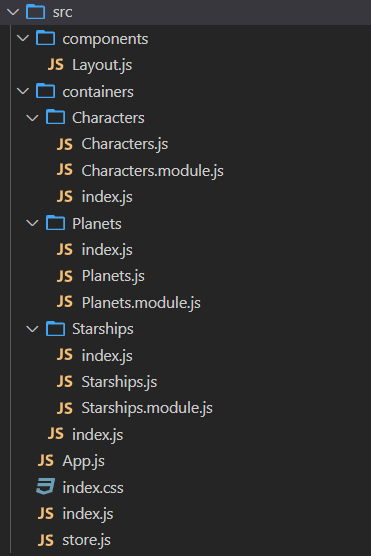
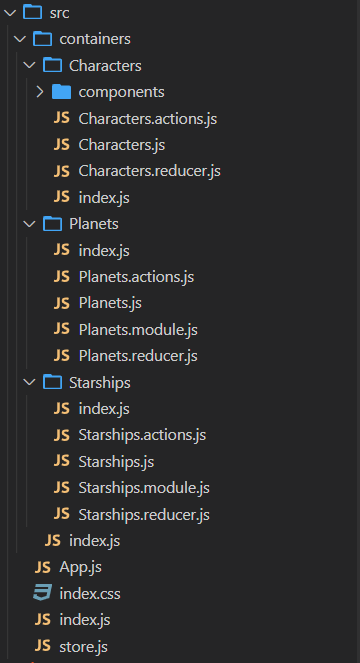
Fullfilled readme

diff --git a/README.md b/README.md
@@ -1,44 +1,131 @@
 # Modularyzacja aplikacji reduxowych
 
+Opowiadanie o zmniejszaniu ilości warstw systemu
+
 ## "A co to redux?" - problem warstw abstrakcji jako powszechny błąd w tutorialach.
 
-Kiedy uczysz się o reduxie i roli akcji i reducerów, zaczynasz od bardzo prostych przykładów. Większość dostępnych tutoriali nie wchodzi na wyższy poziom. Ale jeśli budujesz coś z Reduxem, co jest bardziej skomplikowane niż lista rzeczy do zrobienia, będziesz potrzebował mądrzejszego sposobu na skalowanie swojej bazy danych w czasie.
+<img src="https://raw.githubusercontent.com/michalniemiec28/modularizing-redux-apps/master/readme/redux-flow.gif" width="500" />
 
-W tutorialach przygoda zazwyczaj zaczyna się od utworzenia osobnego katalogu dla akcji, reducerów oraz typów akcji. Jest to podejście function-first - katalogi najwyższego poziomu są nazwane zgodnie z przeznaczeniem plików znajdujących się w środku. Masz więc: kontenery, komponenty, akcje, reducery, itd.
+[https://redux.js.org/tutorials/essentials/part-1-overview-concepts]
+
+Kiedy uczysz się o reduxie i roli akcji i reducerów, zaczynasz od bardzo prostych przykładów. Większość dostępnych tutoriali nie wchodzi na wyższy poziom. Ale jeśli budujesz coś z Reduxem, co jest bardziej skomplikowane niż lista rzeczy do zrobienia, będziesz potrzebował mądrzejszego sposobu na skalowanie swojego zewnętrznego stanu komponentów.
+
+W tutorialach przygoda zazwyczaj zaczyna się od utworzenia osobnych katalogów dla akcji, reducerów oraz typów akcji. Jest to podejście `function-first` - katalogi najwyższego poziomu są nazwane zgodnie z przeznaczeniem plików znajdujących się w środku. Masz więc: kontenery, komponenty, akcje, reducery, itd.
 
 Każdy katalog jest osobną warstwą abstrakcji twojej aplikacji.
 
[1 lines of base64/hex data omitted]
-
-Musisz wiedzieć że to się w ogóle nie skaluje. Gdy Twoja aplikacja się rozrasta i dodajesz więcej funkcji, dodajesz pliki do tych samych folderów. Więc kończysz z koniecznością przewijania wewnątrz jednego folderu, aby znaleźć swój plik.
+Musisz wiedzieć, że to się w ogóle nie skaluje. Gdy Twoja aplikacja się rozrasta i dodajesz więcej funkcji, dodajesz pliki do tych samych folderów. Więc kończysz z koniecznością przewijania wewnątrz jednego folderu, aby znaleźć swój plik.
 
 Problem polega również na sprzężeniu folderów razem. Pojedynczy przepływ przez twoją aplikację prawdopodobnie będzie wymagał plików z wszystkich folderów.
 
-Jedną z zalet tego podejścia jest to, że izoluje ono - w naszym przypadku - Reacta od Reduxa. Więc jeśli chcesz zmienić bibliotekę zarządzania stanem, wiesz, których folderów musisz dotknąć. I na odwrót - jeśli zmienisz bibliotekę widoku, możesz zachować swoje reduxowe foldery nietknięte.
-
 ## Architektura Ducks. Współdzielone abstrakcje.
-
-<img src="https://cdn-media-1.freecodecamp.org/images/1*uceu9f-p_A2H2-2xD-6MiQ.jpeg" width="500" />
 
 Ktoś kiedyś powiedział, że nazywanie rzeczy jest jedną z najtrudniejszych prac w informatyce. Nie mógłbym się z tym nie zgodzić ale strukturyzowanie folderów i organizowanie plików jest na drugim miejscu.
 
 Istnieją dwa podejścia do strukturyzacji aplikacji: function-first i feature-first.
 
-Poniżej po lewej stronie widać strukturę folderów typu function-first. Po prawej stronie możesz zobaczyć podejście feature-first.
+### Podejście typu function-first:
 
-<img src="https://cdn-media-1.freecodecamp.org/images/1*HM8M2Agd_TBfU4Zm1_lEJA.png" />
+<img src="https://raw.githubusercontent.com/michalniemiec28/modularizing-redux-apps/master/readme/function-first.png" />
+
+Redux sam w sobie tworzy parę warstw abstrakcyjnych:
+- akcje (i action-type'y)
+- reducery
+- store
+- middleware'y
+
+Dodając do tego warstwę komponentów i kontenerów lub route'ów wychodzi nam całkiem skomplikowana struktura, w której można bardzo łatwo zaburzyć porządek. Wystarczy pomieszać użycie ze sobą kolejnych warstw albo np utworzyć akcje, które nie będą miały odzwierciedlenia w warstwie reducerów.
+
+### Podejście typu feature-first:
+
+<img src="https://raw.githubusercontent.com/michalniemiec28/modularizing-redux-apps/master/readme/feature-first.png" />
 
 Feature-first oznacza, że katalogi najwyższego poziomu są nazwane po głównych funkcjach aplikacji: produkt, koszyk, sesja. Takie podejście skaluje się znacznie lepiej.
 
 Każda nowa funkcjonalność wiąże się z nowym katalogiem, który jednocześnie zawiera logikę aplikacji podzieloną według swojego przeznaczenia.
+Plusów tego rozwiązania jest bardzo dużo, największy plus moim zdaniem to bardzo mało kodu w tak zwanym folderze `shared`, gdyż logika aplikacji jest pocięta względem komponentów.
+
+Ogólnie im mniejszy poziom abstrakcji tym lepsza czytelność, dlatego powinno się dążyć do jak najmniejszej ilości warstw. Patrząc na akcje i reducer, można stwierdzić że "zmieszczą się" w jednym pliku. Ten plik to właśnie duck - kaczka, czyli moduł.
+
+<img src="https://raw.githubusercontent.com/michalniemiec28/modularizing-redux-apps/master/readme/ducks.jpeg" width="300" />
+
+[https://github.com/erikras/ducks-modular-redux]
 
 ## Code splitting, asynchroniczne reducery.
 
 W dużych aplikacjach internetowych, często pożądane jest podzielenie kodu aplikacji na wiele pakietów JS, które mogą być ładowane na żądanie. Ta strategia, zwana "dzieleniem kodu", pomaga zwiększyć wydajność aplikacji poprzez zmniejszenie rozmiaru początkowego ładunku JS, który musi zostać pobrany.
 
+Świetnym featurem jest ładowanie komponentów za pomocą funkcji `lazy`. Pozwala ona na asynchroniczne pobieranie kawałków wygenerowanego kodu przez webpacka. Daje nam to możliwość zmniejszenia rozmiaru aplikacji, którą trzeba pobrać na początku.
+
+```js
+// App.js
+
+const Characters = lazy(() => import("./containers/Characters"))
+const Planets = lazy(() => import("./containers/Planets"))
+const Starships = lazy(() => import("./containers/Starships"))
+
+const App = () => (
+  <Provider store={store}>
+    <BrowserRouter>
+      <Suspense fallback={null}>
+        <Routes>
+          <Route path="/" element={<Layout />}>
+            <Route path="characters" element={<Characters />} />
+            <Route path="planets" element={<Planets />} />
+            <Route path="starships" element={<Starships />} />
+          </Route>
+        </Routes>
+      </Suspense>
+    </BrowserRouter>
+  </Provider>
+)
+```
+
+Jeszcze lepiej aplikacja skaluje się jak zadeklarujemy ładowanie kontenerów w pliku `src/containers/index.js`
+
+```js
+// containers/index.js
+
+import { lazy } from "react"
+
+export const Characters = lazy(() => import("./Characters"))
+export const Planets = lazy(() => import("./Planets"))
+export const Starships = lazy(() => import("./Starships"))
+```
+
+Należy wtedy pamiętać o poprawnym ładowaniu takich komponentów, muszą być one owrapowane komponentem `Suspense`. Im mniej warstw między `Suspense` a importowanym komponentem, tym lepiej.
+
+```js
+// App.js
+
+import { Characters, Planets, Starships } from './containers'
+
+const wrapSuspense = (Component) => (
+  <Suspense fallback={<Fallback />}>
+    <Component />
+  </Suspense>
+)
+
+const App = () => (
+  <Provider store={store}>
+    <BrowserRouter>
+      <Routes>
+        <Route path="/" element={<Layout />}>
+          <Route path="characters" element={wrapSuspense(Characters)} />
+          <Route path="planets" element={wrapSuspense(Planets)} />
+          <Route path="starships" element={wrapSuspense(Starships)} />
+        </Route>
+      </Routes>
+    </BrowserRouter>
+  </Provider>
+)
+```
+
+Takie rozwiązanie pozwala nie tylko zmniejszyć rozmiar aplikacji potrzebny do załadowania "na starcie" ale również na asynchoniczne wpinanie do redux'a modułów, których potrzebujemy.
+
 ### Funkcja `replaceReducer`
 
-Aby podzielić kod, chcemy mieć możliwość dynamicznego dodawania reducerów do store'a. Główny reducer jest generowany przez wywołanie `combineReducers()`. Aby dynamicznie dodawać kolejne reducery, musimy ponownie wywołać tę funkcję, aby zastąpić reducer główny. Do tego służy funkcja replaceReduce. Wywołanie jej spowoduje zamianę referencji do wewnętrznej funkcji reducera oraz wysłanie akcji, która pomoże nowo dodanym reducerom w inicjalizacji:
+Aby podzielić kod, chcemy mieć możliwość dynamicznego dodawania reducerów do store'a. Główny reducer jest generowany przez wywołanie `combineReducers()`. Aby dynamicznie dodawać kolejne reducery, musimy ponownie wywołać tę funkcję, aby zastąpić reducer główny. Do tego służy funkcja `replaceReduce()`. Wywołanie jej spowoduje zamianę referencji do wewnętrznej funkcji reducera oraz wysłanie akcji, która pomoże nowo dodanym reducerom w inicjalizacji:
 
 ```javascript
 const newRootReducer = combineReducers({
@@ -54,6 +141,8 @@ store.replaceReducer(newRootReducer)
 Prawdopodobnie będziemy chcieli wywołać funkcję `store.replaceReducer()` z dowolnego miejsca w aplikacji. Z tego powodu, pomocne jest zdefiniowanie generycznej funkcji `injectReducer()`, która przechowuje referencje do wszystkich istniejących podrzędnych reducerów i dołączenie jej do instancji store'a.
 
 ```javascript
+// store.js
+
 import { createStore } from 'redux'
 
 export default function configureStore(initialState) {
@@ -91,38 +180,205 @@ Teraz wystarczy wywołać `store.injectReducer`, aby dodać nowy reducer do stor
 
 ### Asynchronizacja dodawania reducerów
 
-Świetnym featurem jest asynchoniczne ładowanie komponentów przez reacta za pomocą funkcji `lazy`.
-Pozawala ona na asynchronizację dodawania reducerów podczas przeklikiwania aplikacji. Daje nam to możliwość minimalnej złożoności całego store'a poprawiając wydajność całej aplikacji.
+```js
+// containers/Characters/index.js
 
-```javascript
-import React, { Suspense, lazy } from "react";
-import { Provider } from "react-redux";
-import { BrowserRouter, Routes, Route } from "react-router-dom";
+import Characters from './Characters';
+import charactersReducer from './Characters.module'
+import { store } from '../../store'
 
-import { store } from './store';
-import Layout from "./components/Layout";
+// injecting charactersReducer when a file has been lazy loaded
+store.injectReducer('characters', charactersReducer)
 
-const Characters = lazy(() => import("./containers/Characters"))
-const Planets = lazy(() => import("./containers/Planets"))
-const Starships = lazy(() => import("./containers/Starships"))
+export default Characters
+```
 
-const App = () => (
-  <Provider store={store}>
-    <BrowserRouter>
-      <Suspense fallback={null}>
-        <Routes>
-          <Route path="/" element={<Layout />}>
-            <Route path="characters" element={<Characters />} />
-            <Route path="planets" element={<Planets />} />
-            <Route path="starships" element={<Starships />} />
-          </Route>
-        </Routes>
-      </Suspense>
-    </BrowserRouter>
-  </Provider>
-)
+Asynchronicznie ładowane moduły reduxowe zmniejszają początkową złożoność głównego reducera dzięki czemu aplikacja uruchamia się i działa szybciej.
+
+Spójrzmy teraz na to co się dzieje w komponentach.
+
+```js
+// containers/Characters/Characters.js
+
+class Characters extends React.Component {
+  componentDidMount() {
+    const { characters, getCharacters } = this.props;
+
+    if (!characters.length) {
+      getCharacters();
+    }
+  }
+
+  render() {
+    const { fetchingCharacters, characters, character, getCharacter } = this.props;
+  
+    if (fetchingCharacters) {
+      <h2>Fetching star wars characters...</h2>;
+    }
+  
+    return (
+      <Wrapper>
+        <div>
+          {characters.map(({ name, url }) => (
+            <div key={name} onClick={() => getCharacter(url)}>{name}</div>
+          ))}
+        </div>
+        {character && (
+          <Item>
+            <div>Name: {character.name}</div>
+            <div>Gender: {character.gender}</div>
+            <div>Height: {character.height}</div>
+            <div>Birth Year: {character.birth_year}</div>
+          </Item>
+        )}
+      </Wrapper>
+    );
+  }
+}
+
+const mapStateToProps = state => ({
+  characters: state.characters.characters,
+  character: state.characters.character,
+  error: state.characters.error,
+  fetchingCharacters: state.characters.fetchingCharacters
+});
+
+const mapDispatchToProps = {
+  getCharacters,
+  getCharacter,
+}
+
+export default connect(
+  mapStateToProps,
+  mapDispatchToProps
+)(Characters);
+```
+
+Część logiki, która łączy się ze storem może zostać wyniesiona, gdyż "wrappuje" cały komponent, wynieśmy to więc do pliku index.js
+
+```js
+// containers/Characters/index.js
+
+import { connect } from "react-redux";
+import Characters from './Characters';
+import charactersReducer, { getCharacters, getCharacter } from './Characters.module'
+import { store } from '../../store'
+
+store.injectReducer('characters', charactersReducer)
+
+const mapStateToProps = state => ({
+    characters: state.characters.characters,
+    character: state.characters.character,
+    error: state.characters.error,
+    fetchingCharacters: state.characters.fetchingCharacters
+  });
+  
+const mapDispatchToProps = {
+    getCharacters,
+    getCharacter,
+}
+
+export default connect(
+    mapStateToProps,
+    mapDispatchToProps
+)(Characters);
+```
+
+Taka struktura tworzy nam kontener, który łączy się z reduxem, wpinając reducer i mapując do propsów potrzebne akcje i podzielonego state'a.
+Trzeba w tym momencie wspomnieć o tym, że dla każdego komponentu taka struktura będzie dodatkową warstwą "połączeniową". Wraz z dodaniem hooków do biblioteki react, dodano również do react-redux hooki które pozwalają się połączyć ze storem bezpośrednio w komponencie, redukując, tym samym, warstwę połączeniową.
+
+```js
+export const useCharacters = () => {
+  const dispatch = useDispatch();
+  const props = useSelector((state) => ({
+    characters: state.characters.characters,
+    character: state.characters.character,
+    error: state.characters.error,
+    fetchingCharacters: state.characters.fetchingCharacters
+  }))
+
+  return {
+    ...props,
+    getCharacters: () => dispatch(getCharacters()),
+    getCharacter: (url) => dispatch(getCharacter(url)),
+  }
+}
+```
+
+Jest to warstwa abstrakcji, którą śmiało możemy dołączyć do modułu w komponencie.
+
+Żeby jej użyć musimy przepisać komponent klasowy na funkcyjny.
+
+```js
+const Characters = () => {
+  const {
+    fetchingCharacters, characters, character, getCharacter,
+  } = useCharacters();
+
+  useEffect(() => {
+    if (!characters.length) {
+      getCharacters();
+    }
+  }, [])
+
+  if (fetchingCharacters) {
+    return <h2>Fetching star wars characters...</h2>;
+  }
+  
+  return (
+    <Wrapper>
+      <div>
+        {characters.map(({ name, url }) => (
+          <div key={name} onClick={() => getCharacter(url)}>{name}</div>
+        ))}
+      </div>
+      {character && (
+        <Item>
+          <div>Name: {character.name}</div>
+          <div>Gender: {character.gender}</div>
+          <div>Height: {character.height}</div>
+          <div>Birth Year: {character.birth_year}</div>
+        </Item>
+      )}
+    </Wrapper>
+  );
+}
 ```
 
 ## Middlewary na ratunek.
 
-## Context API vs redux. Krótka notka na temat memoizacji.
+Jestem dumny z takiego zmodularyzowania aplikacji ale pojawia się jeden problem.
+Co jeśli będzie potrzeba skorzystania z części store'a, który się jeszcze nie załadował?
+
+Ogólnie możemy asynchronicznie wczytać moduł który jest nam potrzebny w każdym miejscu. Na pomoc może również przydać się utworzenie middlewara, który będzie tym zarządzał.
+Potrzebna będzie wtedy lista wszystkich reducerów zdefiniowana w pliku konfiguracyjnym. Jeśli zostanie wywołana akcja, która pochodzi z niewpiętego modułu, middleware załaduje ten moduł przed wywołaniem akcji.
+
+## Context API vs redux.
+
+Jest bardzo dużo opinii na ten temat. Właściwie co developer to inne zdanie. Słyszałem również poniekąd, że "redux jest stary i teraz mamy context API więc jest to niepotrzebna abstrakcja". Porównajmy więc oba rozwiązania.
+
+### Złożoność
+
+Context API (z uwagi na hooki) jest w mojej opinii bardziej "naturalnym dla reacta" rozwiązaniem, które można zastosować do utworzenia zewnętrznego stanu komponentów.
+Taki stan jest prosty i nie zmusza developerów do zapoznawania się z nowym narzędziem w postaci osobnej biblioteki. Nie wprowadza nowych warstw abstrakcji, jedynie tworzy możliwość "zdalnego" przekazywania propsów do komponentów.
+
+Redux jest dość skomplikowanym rozwiązaniem, które, użyte w projekcie, wymaga od nowych osób wdrożenia się w nową technologię, zapoznania się z nowymi bibliotekami. Nieodpowiednio użyty pogarsza czytelność kodu i może doprowadzić do ślepej uliczki.
+Potrzeba też napisać więcej kodu aby obsłużyć daną potrzebę biznesową.
+
+### Struktura
+
+Context API jest prostym rozwiązaniem, które daje niewiele możliwości. Oczywiście może być zastosowany jako zewnętrzny stan ale zawsze musi się znajdować w drzewie komponentów. Ciężko tutaj o płaską strukturę wielu kontekstów. Często zachodzi potrzeba skorzystania z wewnętrznego kontekstu na zewnątrz. Prowadzi to do komplikacji.
+
+Redux pod tym względem według mnie wygrywa, gdyż jest kompletnie zewnętrznym stanem do którego podpinamy się z komponentami. Możemy w nim utworzyć strukturę stanów, które mogą reagować między sobą na swoje zmiany. Daje to potężne możliwości.
+
+### Devtools
+
+Context API jest dostępne dla developera w react-devtools, w zakładce Components. Przeklikując się po drzewie komponentów widzimy możliwość podejrzenia stanu kontekstu, podobnie jak stanu komponentów. Właściwie to wszystko.
+
+W reduxie mamy dostępne redux-devtools. W rozszerzeniu tym mamy szereg możliwości, które z pewnością przysłużą się w debugowaniu kodu. Możemy zobrazować sobie strukturę danych w store, automatycznie wygenerować testy, cofnąć się do porządanej akcji. Przeniesienie stanu komponentu do reduxa pozwala "obrać właściwą ścieżkę" pozbywając się niepotrzebnych akcji. Jest to bardzo wdzięczne narzędzie, z pewnością ułatwiające utrzymanie aplikacji.
+
+### Memoizacja
+
+React pozwala na memoizowanie swojego stanu poprzez używanie hooków. Jest to sprawdzone API, które jest bardzo czytelne.
+
+W redux'ie za memoizację odpowiedzialne są selektory. Są to dużo bardziej rozbudowane funkcje, które moim zdaniem dają więcej możliwości
